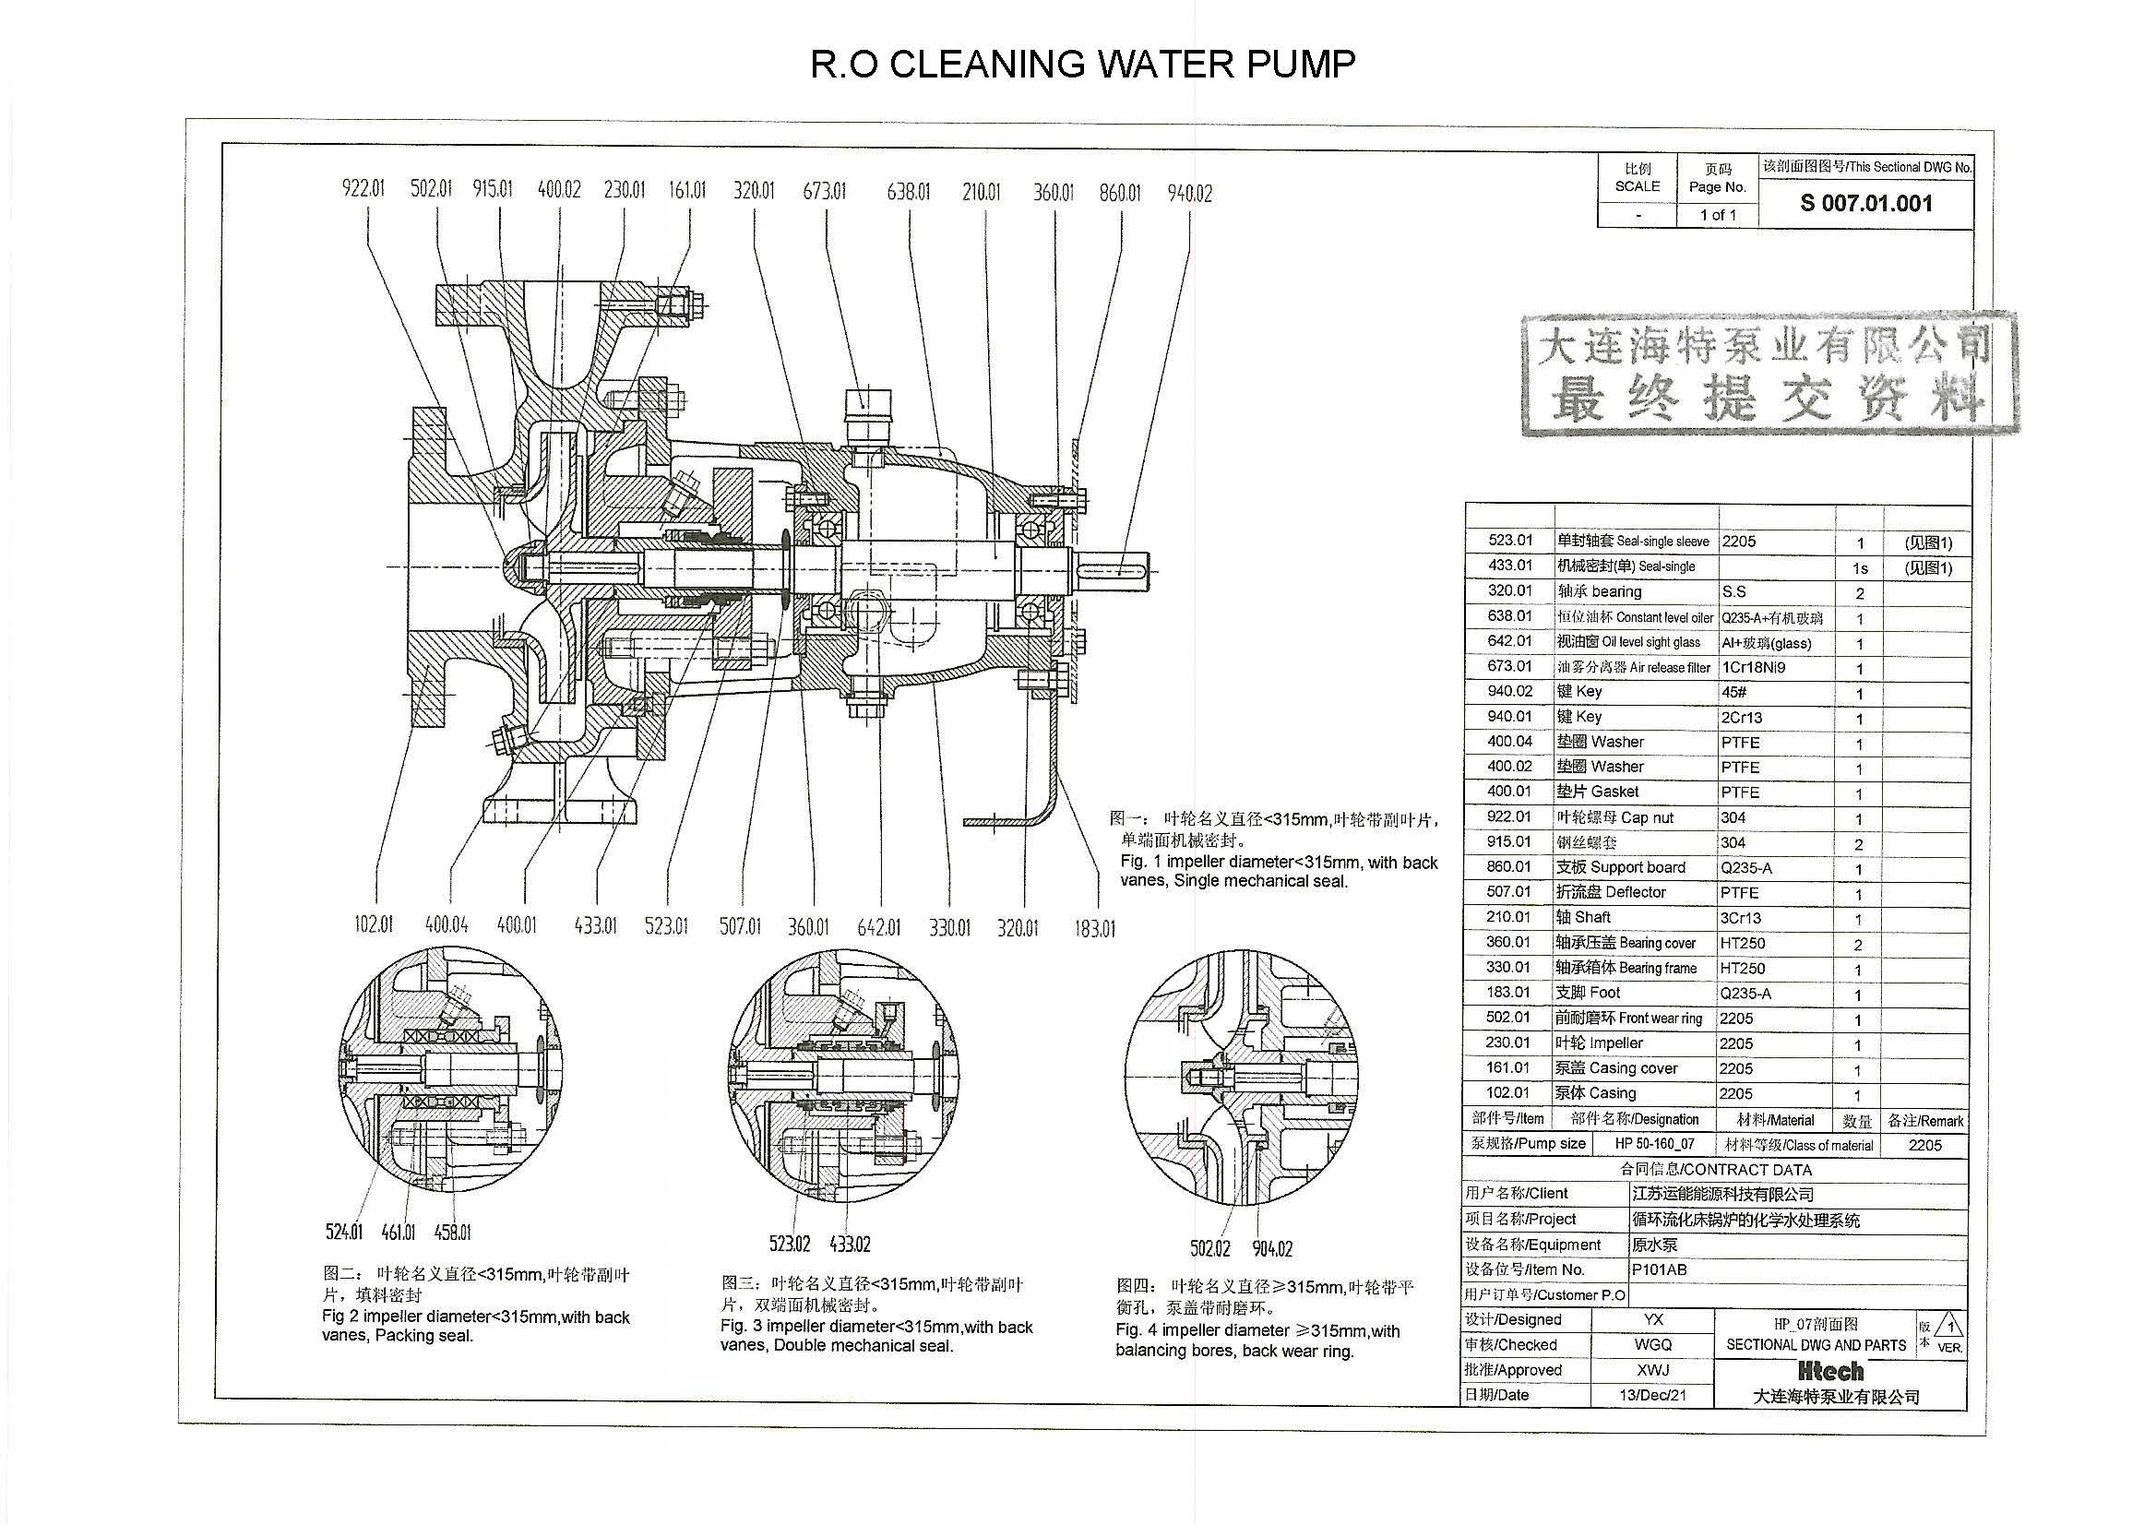
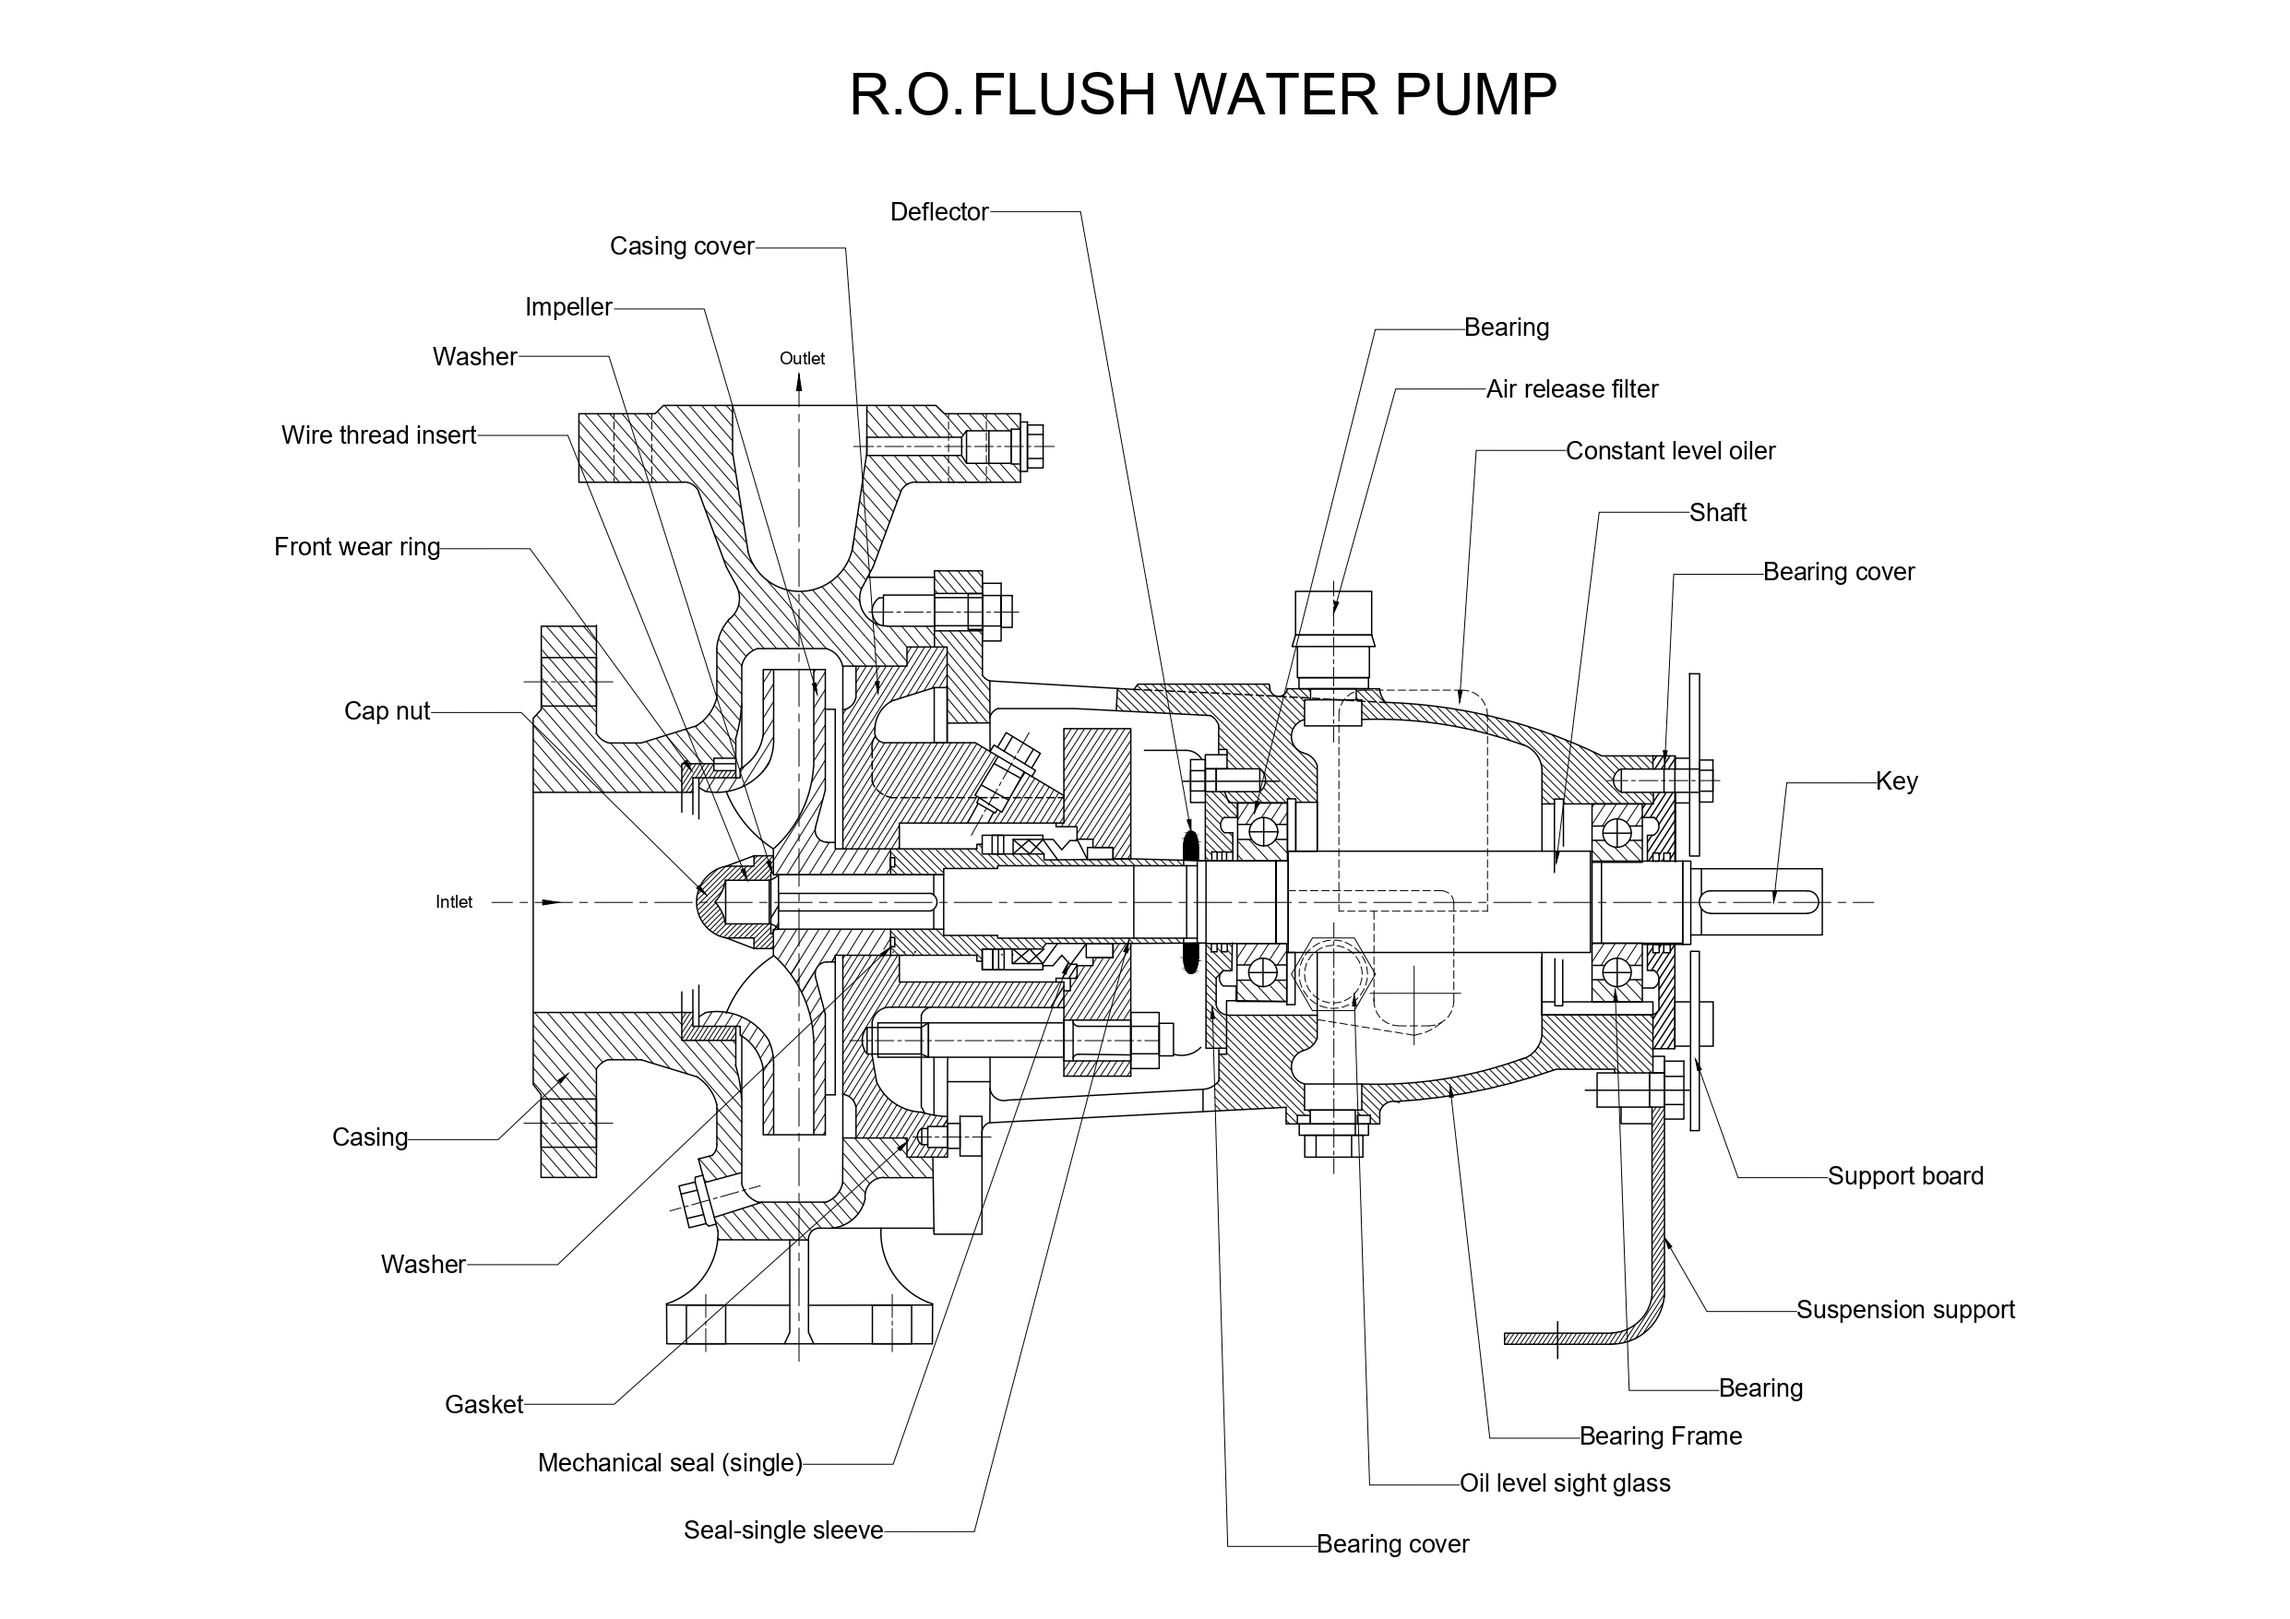
update equip status js

Changed region(s): [[0.1249, 0.0926, 0.9371, 0.9564], [0.3748, 0.0309, 0.6872, 0.0926], [0.7497, 0.0926, 0.9371, 0.1543]]

diff --git a/javascript/equip.js b/javascript/equip.js
@@ -79,7 +79,34 @@ const equipmentPositionMaps = {
         "Bearing 2": { x: 777, y: 624 },
         "Bearing Frame": { x: 715, y: 646 },
         "Oil Level Sight Glass": { x: 659, y: 669 },
-        "Bearing Cover": { x: 956, y: 696 },
+        "Bearing Cover": { x: 596, y: 696 },
+    },
+
+    "R.O. Flushing Water Pump": {
+        "Casing Cover": { x: 365, y: 105 },
+        "Impeller": { x: 296, y: 135 },
+        "Washer": { x: 248, y: 158 },
+        "Wire Thread Insert": { x: 230, y: 196 },
+        "Front Wear Ring": { x: 212, y: 252 },
+        "Cap Nut": { x: 207, y: 329 },
+        "Casing": { x: 198, y: 538 },
+        "Washer 2": { x: 223, y: 599 },
+        "Gasket": { x: 253, y: 668 },
+        "Mechanical Seal": { x: 387, y: 697 },
+        "Seal-Single Sleeve": { x: 427, y: 730 },
+        "Deflector": { x: 477, y: 88 },
+        "Bearing": { x: 675, y: 145 },
+        "Air Release Filter": { x: 691, y: 174 },
+        "Constant Level Oiler": { x: 729, y: 204 },
+        "Shaft": { x: 790, y: 234 },
+        "Bearing Cover 2": { x: 826, y: 264 },
+        "Support Board": { x: 858, y: 558 },
+        "Key": { x: 880, y: 366 },
+        "Suspension Support": { x: 843, y: 624 },
+        "Bearing 2": { x: 805, y: 663 },
+        "Bearing Frame": { x: 736, y: 684 },
+        "Oil Level Sight Glass": { x: 679, y: 707 },
+        "Bearing Cover": { x: 609, y: 739 },
     },
 
     "EDI Booster Pump": {
